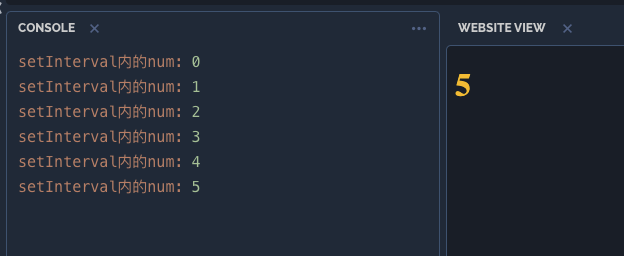
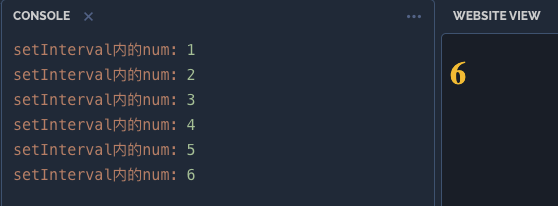
9/12

diff --git a/2_React/react_hooks原理1-useState.md b/2_React/react_hooks原理1-useState.md
@@ -6,9 +6,7 @@
 
 React Hooks的基本用法，[官方文档](https://react.docschina.org/docs/hooks-intro.html) 已经非常详细。本文的目的，是想通过一个简单的例子详细分析一些令人疑惑的问题及其背后的原因。这是系列的第一篇，主要讲解 useState。
 
-## 思考
-
-> 一起来看看这个栗子。
+## 一个栗子引发的思考
 
 ``` javascript
 function Counter() {
@@ -36,7 +34,8 @@ function Counter() {
         }, 1000);
     }, []);
 
-    console.log('我是 count', count);
+    console.log('外部的count:', count);
+    console.log('---------');
 
     return <h1>{count}</h1>;
 }
@@ -44,63 +43,114 @@ function Counter() {
 
 ![image.png](../Image/React/18.png)
 
-
-
-
-
-
-
 事实是，setInterval 每次执行的时候，拿到的 count 都是 0。而函数组件在count变为1后，便不再被触发。
 
-很自然的我们会想到闭包。我们稍加修改再看下这个例子：
+## 为什么
+
+### 闭包
+
+很自然的我们会想到闭包，由于闭包的存在，在函数真正被运行时才可以获取到外部的变量（count）。 比如：
+
+```javascript
+function a() {
+  let count = 0;
+
+  setInterval(() => {
+    console.log(count + 1);
+  }, 1000);
+}
+
+a();
+```
+
+函数`setInterval()`每次被调用时候，才能拿到的外部的变量`count`， 即`0`
+
+![image.png](../Image/React/19.png)
+
+再比如
+
+
+```javascript
+function a() {
+  let count = 0;
+
+  setInterval(() => {
+    console.log(count += 1);
+  }, 1000);
+}
+
+a();
+```
+
+![image.png](../Image/React/20.png)
+
+以上是闭包的特点，在此不多详细讲解，详情请看[闭包](./../1_javascript/闭包.md)
+
+### 验证
+
+根据闭包的特点，这里进行验证
+
+```javascript
+function Counter() {
+  const [count, setCount] = useState(0);
+
+  useEffect(() => {
+      const id = setInterval(() => {
+
+        setCount(count + 1);
+        console.log("setInterval内的count:", count);
+      }, 1000);
+  }, []);
+
+  return <h1>{count}</h1>;
+}
+```
+
+![image.png](../Image/React/21.png)
+
+由于我们给 `useEffect`，传递了第二个参数 `[]`，表示这个 effect 没有任何外部依赖，只需要在第一次 render 时运行，无论这个组件被重新 render 多少次，`setInterval` 只会被注册一次。
+
+
+## WHY? 每次都是重新执行
+
+到这里我想说的到底是什么呢？
+
+1. 在 React 中，对于函数式组件来讲，每次更新都会重新执行一遍函数。也就是说，每次更新都会在当前作用域重新声明一个 `let num = 0`。
+2. **useState 应该理解为和普通的 javascript 函数一样，而不是 React 的什么黑魔法**。函数组件更新的时候，useState 会重新执行，对应的，也会重新声明 `[count, setCount]` 这一组常量。只不过 React 对这个函数做了一些特殊处理：首次执行时，会将 useState 的参数初始化给 count，而以后再次执行时，则会直接取上次 setCount (如果有调用) 赋过的值（React 通过某种方式保存起来的）。
+Function Component 每次 render 都是重新执行 Function (产生新的局部变量，闭包)，第一次创建的闭包和第二次创建的闭包没有任何关系。所以，当程序运行起来是，`setInterval` 内的闭包引用到的一直是最初的 count，而 useState 得到的是最新的 count。这是两处代码打印出来结果不一致的根本原因。
+
+### 每次都是重新渲染，为什么 useState 可以读到最新的 value
+
+![image.png](../Image/React/22.png)
+
+## 解决上述问题
+
+### 利用闭包
+
+我们稍加修改，利用变量`num`，解决上述问题：
 
 ``` javascript
 function Counter() {
-    const [count, setCount] = useState(0);
-    let num = 0;
-    useEffect(() => {
-        const id = setInterval(() => {
-            // 通过 num 来给 count 提供值
-            console.log("setInterval内的num:", num);
-            setCount(num++);
-        }, 1000);
-    }, []);
+  const [count, setCount] = useState(0);
+  let num = 0;
 
-    return <h1>{count}</h1>;
-}
+  useEffect(() => {
+      const id = setInterval(() => {
+          // 通过 num 来给 count 提供值
+          setCount(num += 1);
+          console.log("setInterval内的num:", num);
+      }, 1000);
+  }, []);
+
+  return <h1>{count}</h1>;
 }
 ```
 
 ![image.png](../Image/React/13.png)
 
-我们可以看到，借助 num 这个中间变量，我们可以得到想要的结果。但是，同样是闭包，为什么 num 就能记住之前的值而count每次都为0呢？其实问题出在 count 上，继续往下看：
+### 利用全局变量
 
-```javascript
-function Counter() {
-    const [count, setCount] = useState(0);
-    let num = 0;
-
-    useEffect(() => {
-        const id = setInterval(() => {
-            // 通过 num 来给 count 提供值
-            console.log('setInterval内的num:', num);
-            setCount(num += 1);
-        }, 1000);
-    }, []);
-
-    console.log('我是 num', num);
-
-    return <h1>{count}-----{num}</h1>;
-}
-```
-
-![image.png](../Image/React/15.png)
-
-渲染的 num 一直为0， 而定时器中的 num 却一直在增加，为什么呢？
-
-## 每次都是重新执行
-
-到这里我想说的到底是什么呢？我们可以清晰看见渲染出的 num 和 setInterval 中的 num，是不同的。这是因为在 React 中，对于函数式组件来讲，每次更新都会重新执行一遍函数。也就是说，每次更新都会在当前作用域重新声明一个 `let num = 0`，所以，定时器中闭包引用的那个 num，和每次更新时渲染的 num，根本不是同一个。当然，我们可以很轻易的把它们变成同一个。
+将声明放到渲染组件外面
 
 ``` javascript
 let num = 0; // 将声明放到渲染组件外面
@@ -110,42 +160,9 @@ function Counter() {
 }
 ```
 
-嗯，说了这么多，跟 count 有什么关系呢？同理，正因为函数组件每次都会整体重新执行，那么 Hooks 当然也是这样。
+### 利用setState机理
 
-``` javascript
-function Counter() {
-    const [count, setCount] = useState(0);
-    // ...
-}
-```
-
-**useState 应该理解为和普通的 javascript 函数一样，而不是 React 的什么黑魔法**。函数组件更新的时候，useState 会重新执行，对应的，也会重新声明 `[count, setCount]` 这一组常量。只不过 React 对这个函数做了一些特殊处理：首次执行时，会将 useState 的参数初始化给 count，而以后再次执行时，则会直接取上次 setCount (如果有调用) 赋过的值（React 通过某种方式保存起来的）。
-
-有了这个概念，就不难知道，定时器里的`setCount(count + 1)` ，这个 count 和每次更新重新声明的 count，也是完全不同的两个常量，只不过它们的值，可能会相等。
-
-比如，我们尝试把之前的 num，直接用 count 替代。
-
-``` javascript
-function Counter() {
-    // 注意这里变成 let
-    let [count, setCount] = useState(0);
-    useEffect(() => {
-        const id = setInterval(() => {
-            // 这种写法是不好的
-            setCount(++count);
-        }, 1000);
-    }, []);
-    console.log(count);
-    return <h1>{count}</h1>;
-}
-```
-
-![image.png](../Image/React/16.png)
-
-这时候不论是打印还是页面表现都和你期望的一样，**但是这违背了 React 的原则，而且也让程序变得更让人迷惑**。也就导致你并不能清楚地知道：此时渲染的 count 和 setInterval 中的 count 已经不是同一个了。尽管他们的值是相等的。
-
-
-当然，这种场景下 React 也提供了可行的方法，能够每次拿到 count 的最新值，就是给 setCount 传递一个回调函数。
+给 setCount 传递一个回调函数。
 
 ``` javascript
 function Counter() {
@@ -183,31 +200,6 @@ function Counter() {
 ## 小结
 
 count 每次都被重新声明了，setInterval 因为 useEffect 设置了只执行一次的缘故，在第一次更新时闭包引用的 count 始终是 0，后续更新的 count 和它没关系。
-
-
-
-
-
-
-
-
-
-
-
-
-
-
-
-
-
-
-
-
-
-
-
-
-
 
 ## reference
 

diff --git a/1_javascript/闭包.md b/1_javascript/闭包.md
@@ -63,7 +63,6 @@ function(){
 
 那么在其他的 JS 文件，就不能直接修改这个变量的值，但是可以使用 `window.奖励一条命()` 来涨命，使用 `window.死一条命()` 来让角色掉一条命。
 
-## 你根本不需要知道闭包这个概念，一样可以使用闭包！
+## 你根本不需要知道闭包这个概念，一样可以使用闭包
 
 闭包是 JS 函数作用域的副产品。换句话说，正是由于 JS 的函数内部可以使用函数外部的变量，所以这段代码正好符合了闭包的定义。而不是 JS 故意要使用闭包。很多编程语言也支持闭包，另外有一些语言则不支持闭包。只要你懂了 JS 的作用域，你自然而然就懂了闭包，即使你不知道那就是闭包！
-
